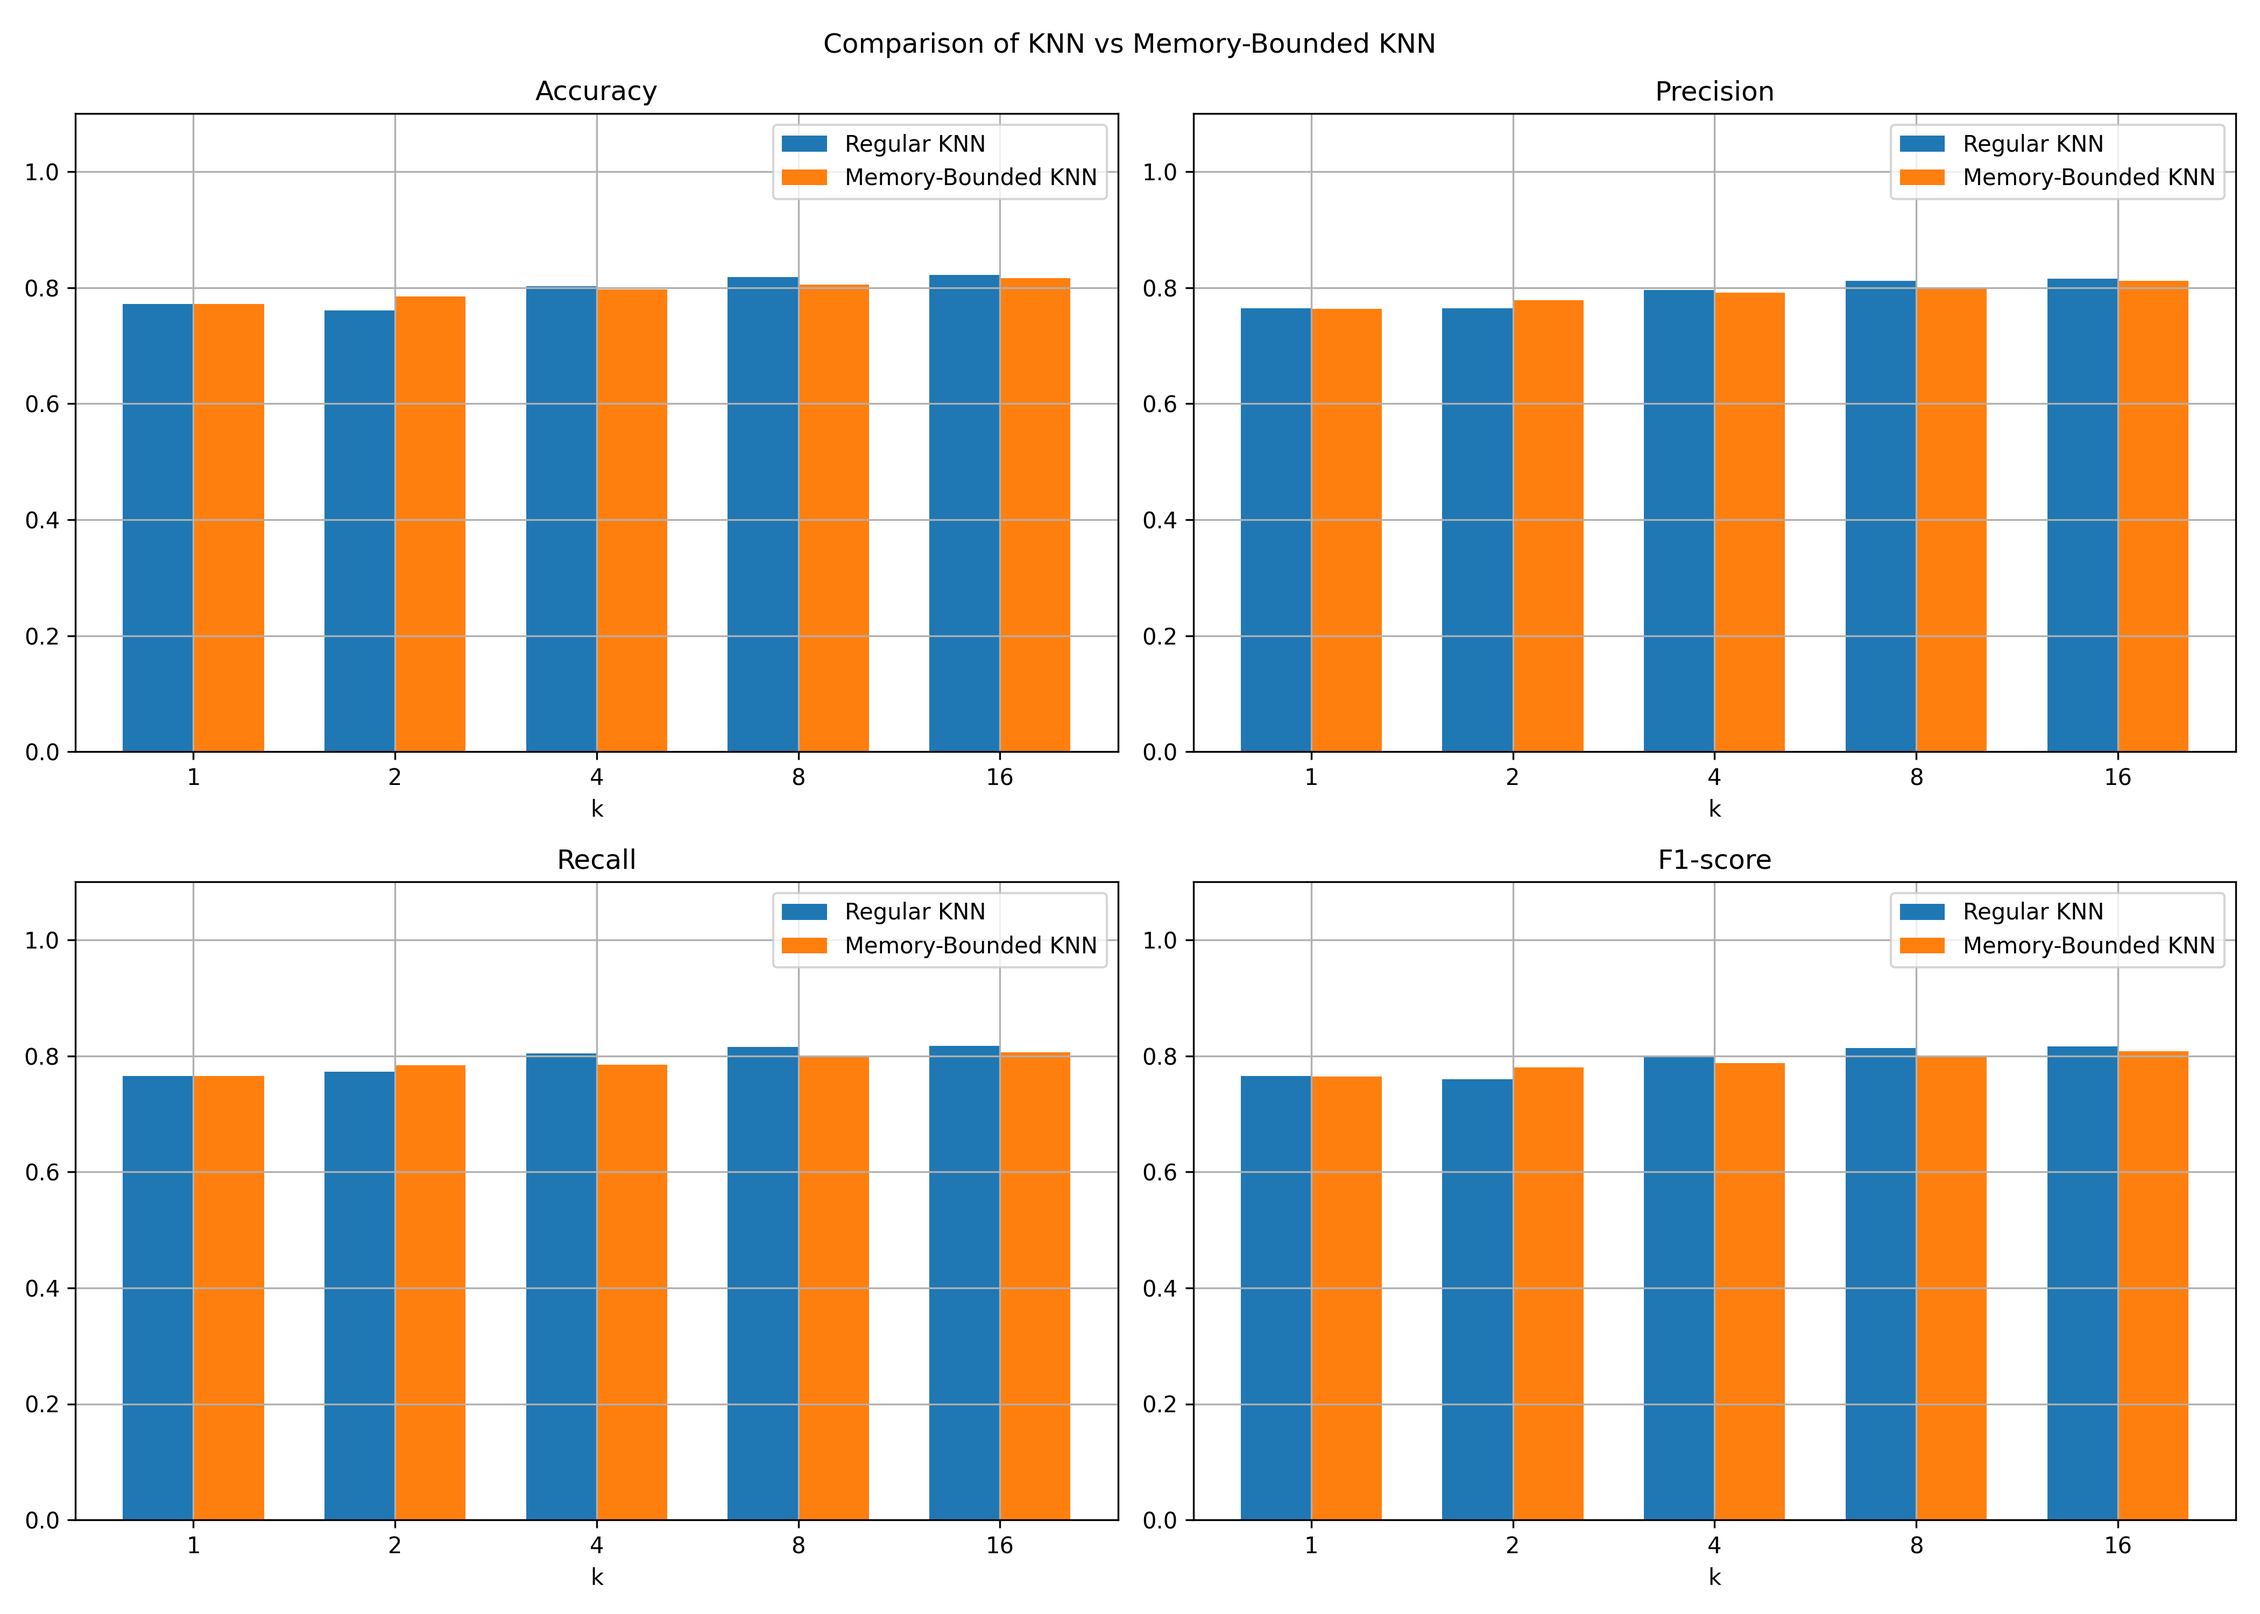
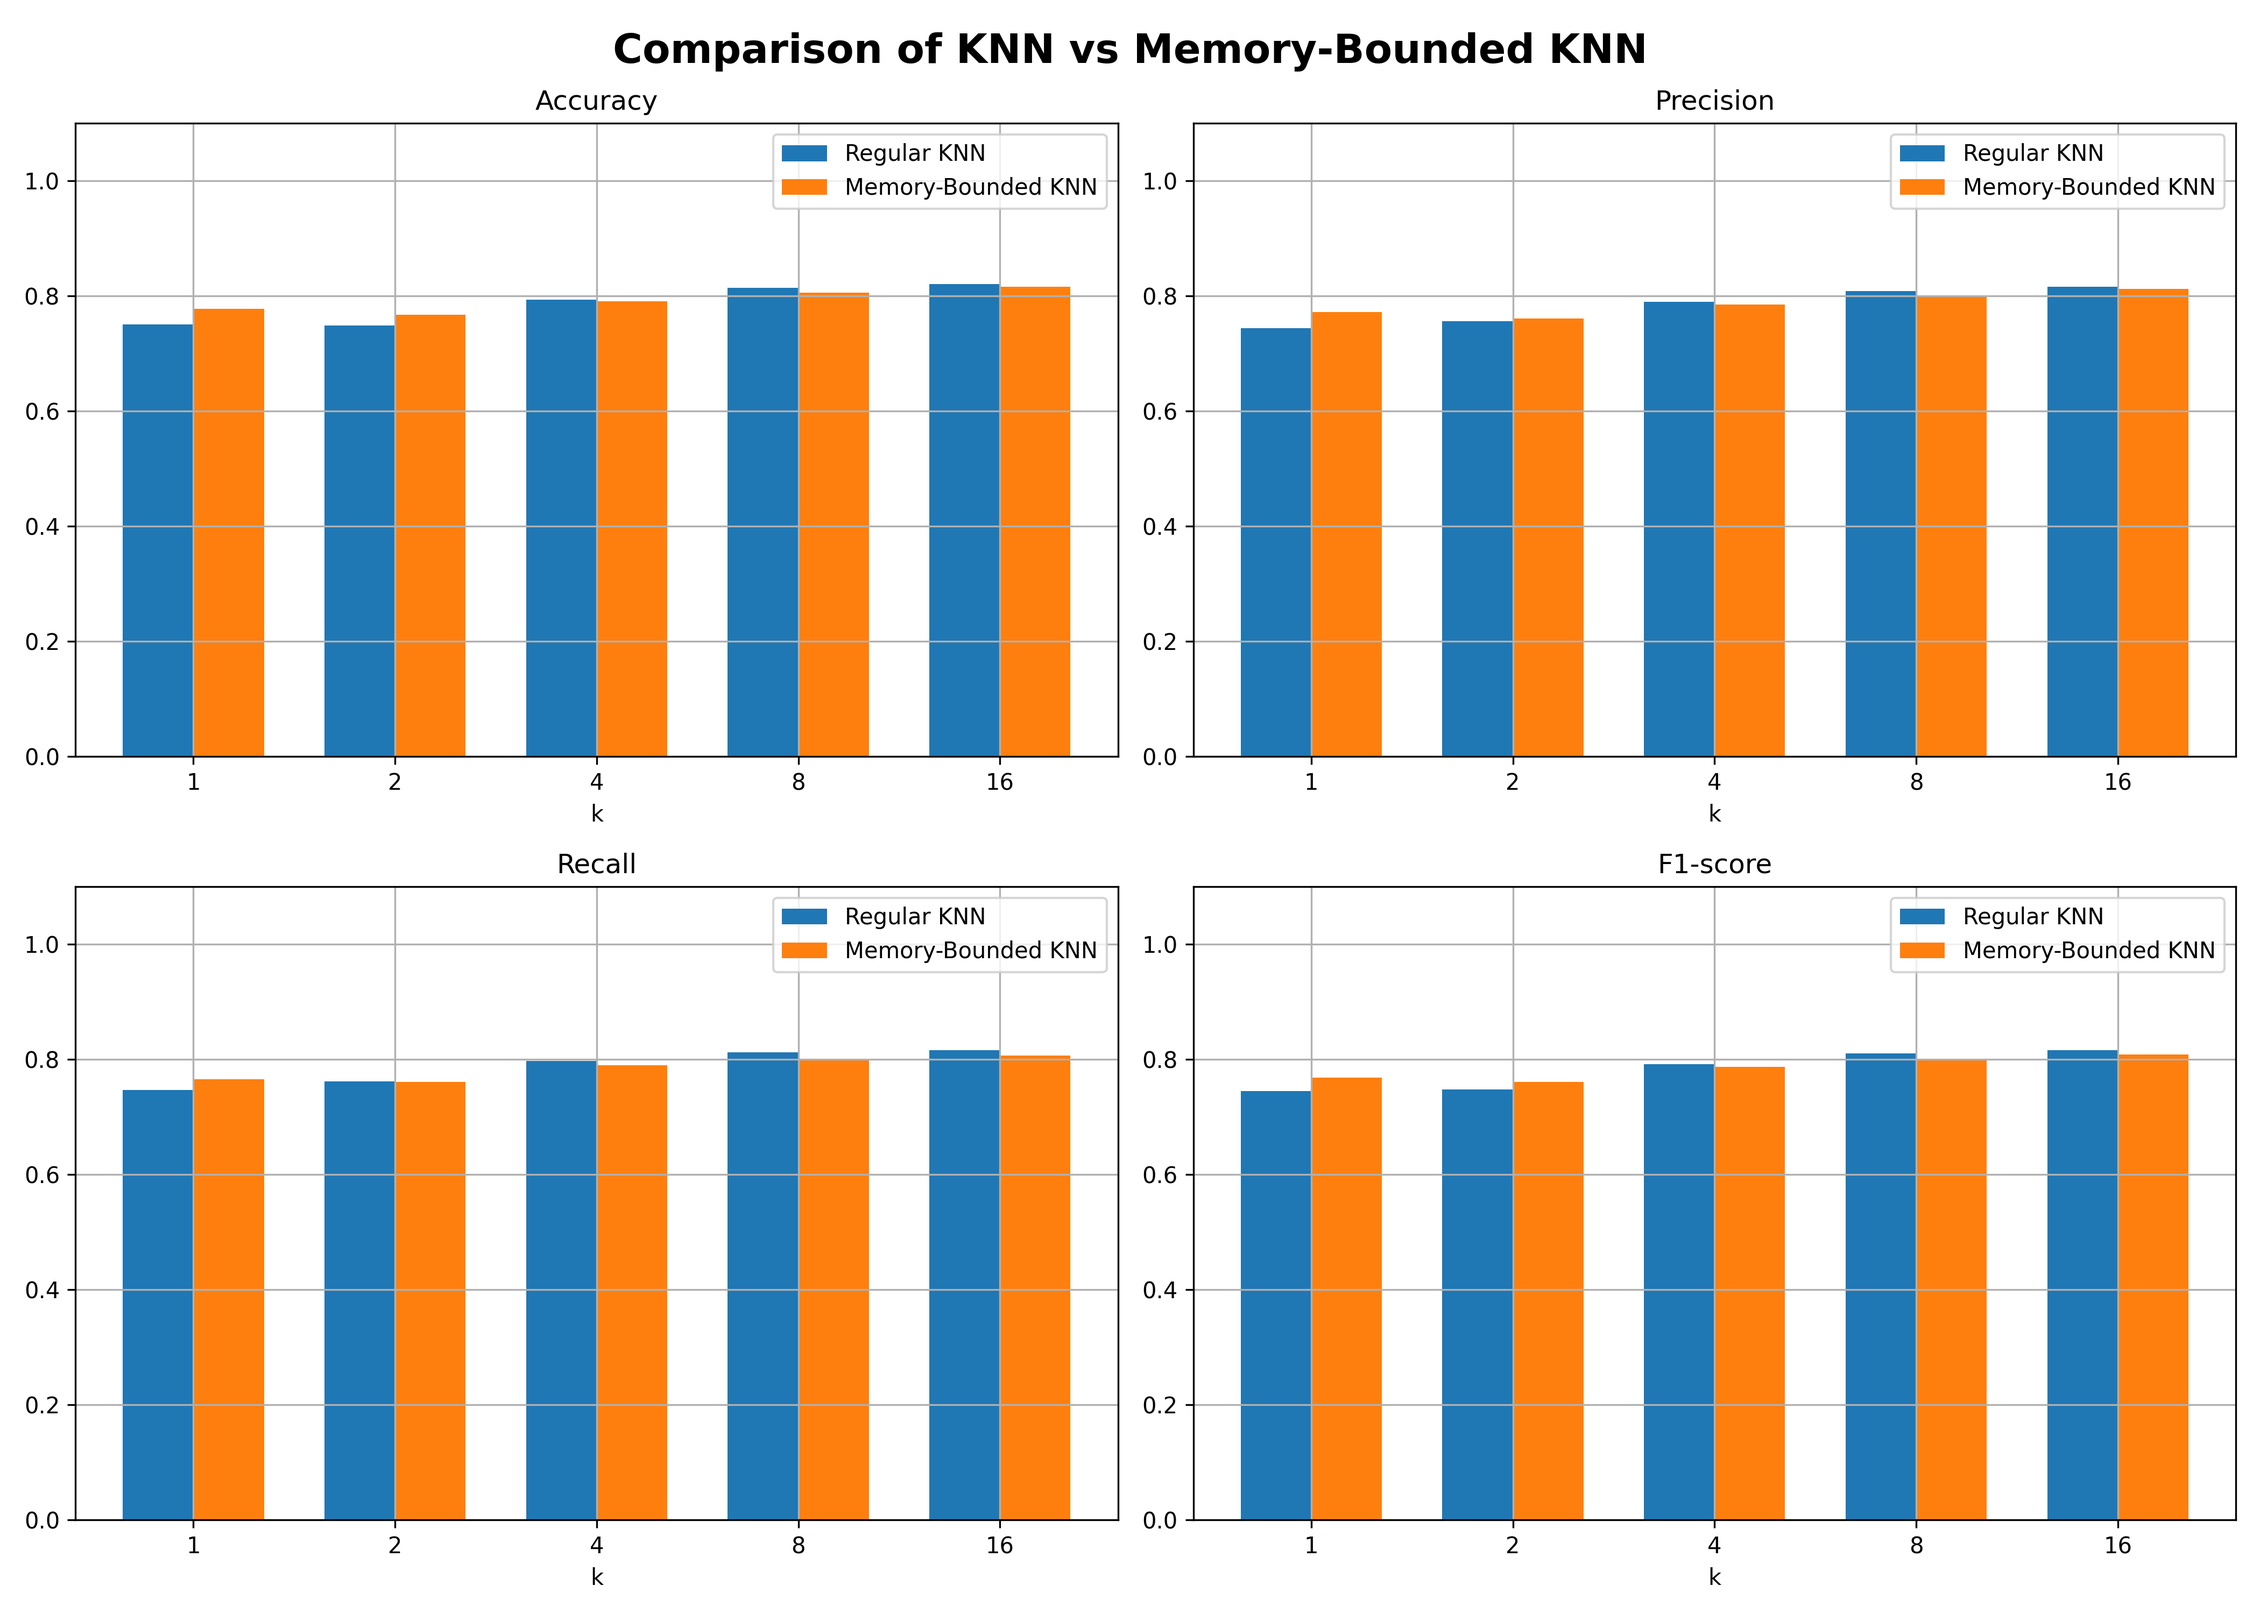
cleaned up code

diff --git a/code/main.py b/code/main.py
@@ -16,7 +16,7 @@ It saves some relevant plots in the "./plots" folder.
 Note: when using this script on another dataset make sure that its data is numerical for KNN distance computations.
 """
 
-# TODO: remvoe "Have you even had suicidal thoughts ?" column and rerun this
+# TODO: remove "Have you even had suicidal thoughts ?" column and rerun this
 
 start_time = time()
 
@@ -48,9 +48,6 @@ metrics = {
 }
 
 for k in k_values:
-    age = df['Age']
-    print(min(age))
-    print(max(age))
     classifier = KNeighborsClassifier(n_neighbors=k, weights='distance')
     classifier.fit(X_train, y_train)
     y_pred = classifier.predict(X_test)
@@ -120,7 +117,7 @@ for ax, title, keys in zip(axs.ravel(), titles, metric_keys):
     ax.legend()
     ax.grid(True)
 
-plt.suptitle('Comparison of KNN vs Memory-Bounded KNN')
+plt.suptitle('Comparison of KNN vs Memory-Bounded KNN',fontsize=18,fontweight='bold')
 plt.tight_layout()
 plt.savefig('plots/knn_comparison.png', dpi=300)
 

diff --git a/code/dataCleaner.py b/code/dataCleaner.py
@@ -36,7 +36,6 @@ missing_values = df.isnull().sum()
 print("Missing values in each column before imputation:")
 print(missing_values[missing_values > 0])
 
-
 # Convert categorical columns to numerical values
 df['Gender'] = df['Gender'].map({'Male': 0, 'Female': 1})
 df['Family History of Mental Illness'] = df['Family History of Mental Illness'].map({'No': 0, 'Yes': 1})
@@ -62,7 +61,7 @@ df['Degree'] = df['Degree'].map({'B.Pharm': 0, 'BSc': 0, 'BA': 0, 'BCA': 0, 'B.E
                                  'PhD': 2, 'MD': 2,
                                  '\'Class 12\'': 3})
 
-# Impute missing values using IterativeImputer with Regularized Liner Regression
+# Impute missing values using IterativeImputer with BayesianRidge (regularized liner regression)
 imputer = IterativeImputer(max_iter=10, random_state=0)
 df_imputed = imputer.fit_transform(df)
 df = pd.DataFrame(df_imputed, columns=df.columns)

diff --git a/code/featureSelector.py b/code/featureSelector.py
@@ -11,6 +11,7 @@ Using n_features_to_select = 8 already gets significant results
 
 
 df = pd.read_csv('../data/cleaned_student_depression_dataset.csv')
+# df = df.drop(columns='Have you ever had suicidal thoughts ?') # dropping this column causes a significant loss in accuracy
 
 X = df.iloc[:, :-1]
 y = df.iloc[:, -1]
@@ -20,7 +21,7 @@ scaler = StandardScaler()
 X_scaled = scaler.fit_transform(X)
 
 knn = KNeighborsClassifier(n_neighbors=8) # k = 8 works well for the student depression dataset
-sfs = SequentialFeatureSelector(knn, n_features_to_select=8, direction='forward') # n_features_to_select = 8 works well
+sfs = SequentialFeatureSelector(knn, n_features_to_select=5, direction='forward') # n_features_to_select = 5 works well
 sfs.fit(X_scaled, y)
 selected_features = sfs.get_support(indices=True)
 X_selected = X.iloc[:, selected_features]
